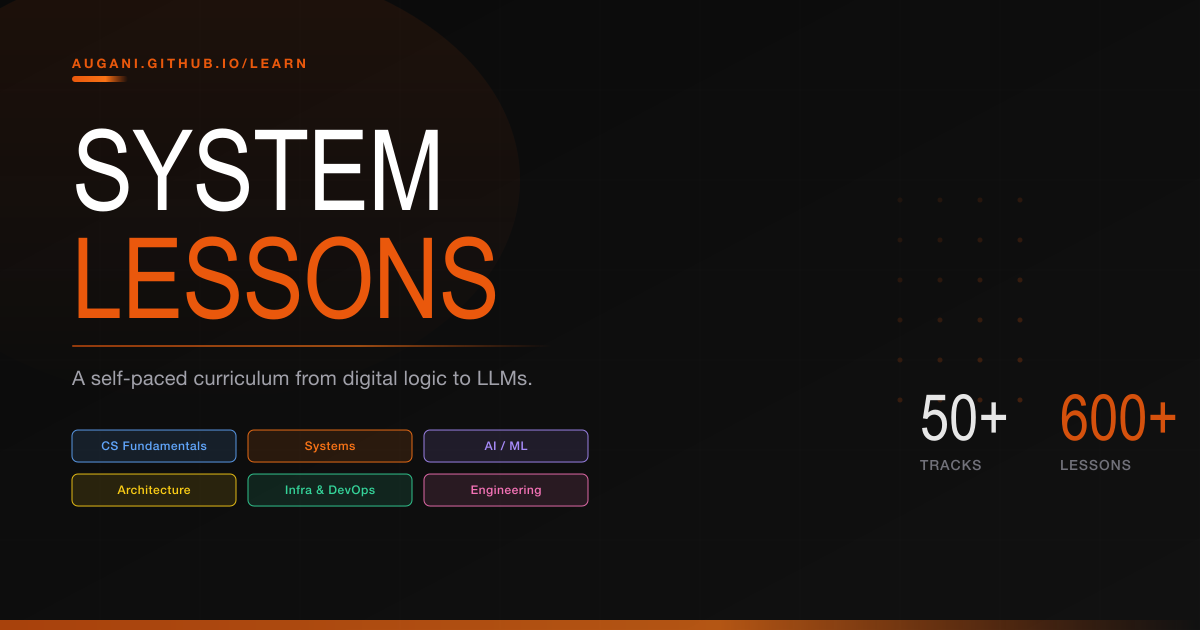
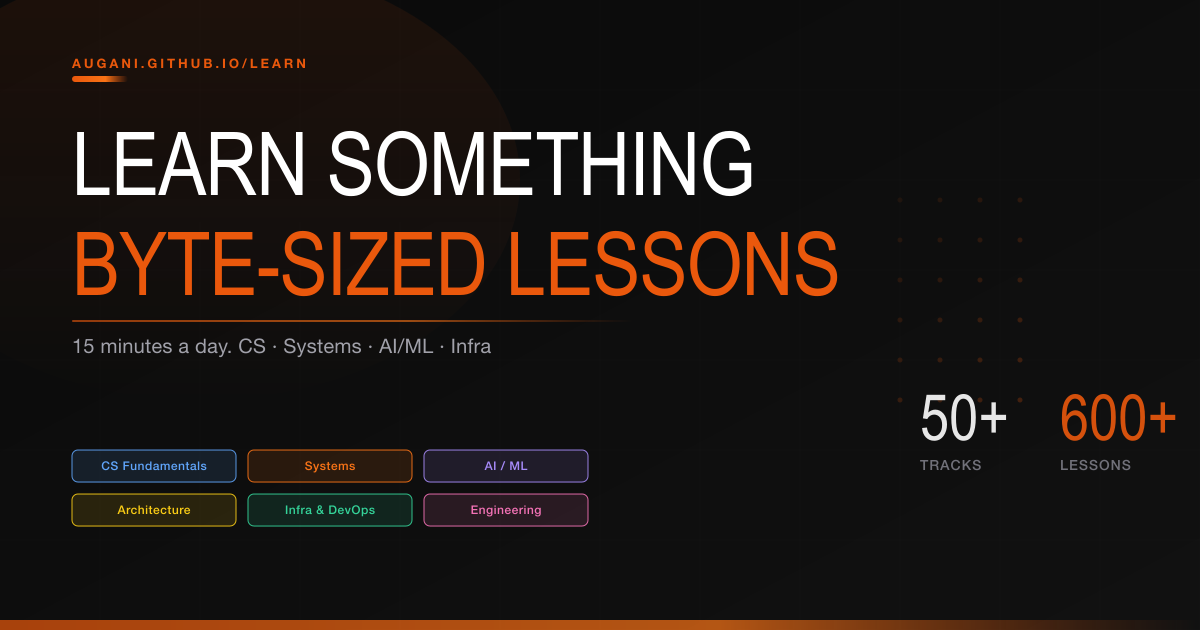
feat: update metadata for improved SEO and social sharing, and replace Open Graph image

diff --git a/index.html b/index.html
@@ -3,22 +3,22 @@
   <head>
     <meta charset="UTF-8" />
     <meta name="viewport" content="width=device-width, initial-scale=1.0" />
-    <title>System Lessons</title>
-    <meta name="description" content="A structured, self-paced curriculum covering CS fundamentals, systems, AI/ML, and engineering — from digital logic to LLMs." />
+    <title>Learn Something — Byte-Sized Lessons</title>
+    <meta name="description" content="Learn CS fundamentals, systems, AI/ML and more — one 15-minute lesson at a time." />
 
     <!-- Open Graph -->
     <meta property="og:type" content="website" />
     <meta property="og:url" content="https://augani.github.io/learn" />
-    <meta property="og:title" content="System Lessons" />
-    <meta property="og:description" content="A structured, self-paced curriculum covering CS fundamentals, systems, AI/ML, and engineering — from digital logic to LLMs." />
+    <meta property="og:title" content="Learn Something — Byte-Sized Lessons" />
+    <meta property="og:description" content="Learn CS fundamentals, systems, AI/ML and more — one 15-minute lesson at a time." />
     <meta property="og:image" content="https://augani.github.io/learn/og-image.png" />
     <meta property="og:image:width" content="1200" />
     <meta property="og:image:height" content="630" />
 
     <!-- Twitter Card -->
     <meta name="twitter:card" content="summary_large_image" />
-    <meta name="twitter:title" content="System Lessons" />
-    <meta name="twitter:description" content="A structured, self-paced curriculum covering CS fundamentals, systems, AI/ML, and engineering — from digital logic to LLMs." />
+    <meta name="twitter:title" content="Learn Something — Byte-Sized Lessons" />
+    <meta name="twitter:description" content="Learn CS fundamentals, systems, AI/ML and more — one 15-minute lesson at a time." />
     <meta name="twitter:image" content="https://augani.github.io/learn/og-image.png" />
     <link rel="preconnect" href="https://fonts.googleapis.com">
     <link rel="preconnect" href="https://fonts.gstatic.com" crossorigin>
